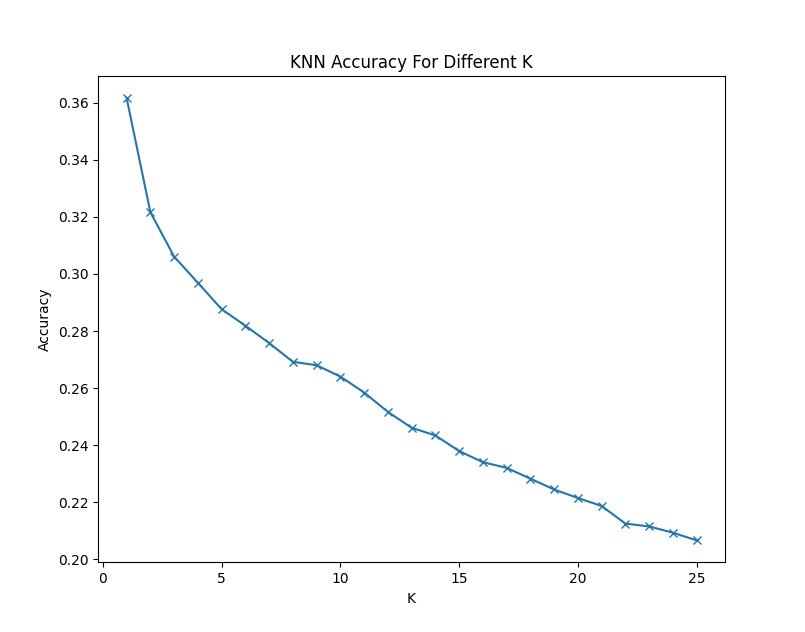
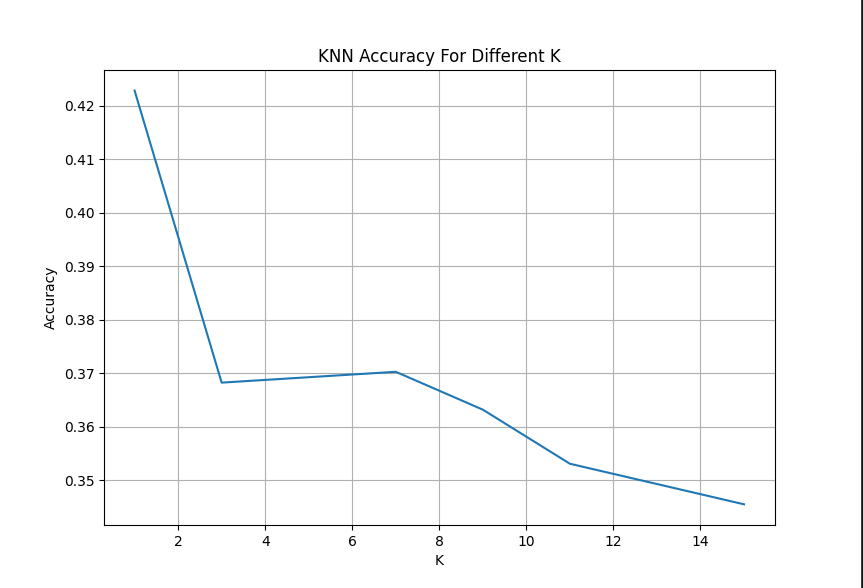
added KNN results. Best is K=1 with 42% accuracy

diff --git a/lib/models/KNN.py b/lib/models/KNN.py
@@ -1,5 +1,5 @@
 import numpy as np
-from sklearn.neighbors import KDTree
+from sklearn.neighbors import BallTree
 from tqdm import tqdm
 from typing import Sequence
 from .base import Classifier
@@ -7,24 +7,24 @@ from .base import Classifier
 
 class KNNClassifier(Classifier):
     """
-    K-Nearest Neighbors classifier using KDTree acceleration.
+    K-Nearest Neighbors classifier using BallTree acceleration.
     
     Attributes:
         K (int): Number of neighbors to consider in prediction.
         X_train (np.ndarray): Flattened training feature vectors.
         y_train (np.ndarray): Training labels.
-        tree (KDTree): KDTree built on training data.
+        tree (BallTree): BallTree built on training data.
     """
 
     def __init__(self, K: int = 1):
         self.K = K
         self.X_train: np.ndarray | None = None
         self.y_train: np.ndarray | None = None
-        self.tree: KDTree | None = None
+        self.tree: BallTree | None = None
 
     def fit(self, X: Sequence, y: Sequence) -> None:
         """
-        Fit the KNN model by storing training data and building a KDTree.
+        Fit the KNN model by storing training data and building a BallTree.
 
         Args:
             X: array-like of shape (N, ...) - training features
@@ -40,13 +40,13 @@ class KNNClassifier(Classifier):
         self.X_train = X
         self.y_train = y
 
-        tqdm.write("Building KDTree…")
-        self.tree = KDTree(self.X_train, metric="manhattan")
-        tqdm.write("KDTree built.")
+        tqdm.write("Building BallTree…")
+        self.tree = BallTree(self.X_train, metric="manhattan")
+        tqdm.write("BallTree built.")
 
     def predict(self, X: Sequence) -> np.ndarray:
         """
-        Predict labels for the input data using KDTree nearest neighbors.
+        Predict labels for the input data using BallTree nearest neighbors.
 
         Args:
             X: array-like of shape (N, ...) - test features
@@ -76,7 +76,7 @@ class KNNClassifier(Classifier):
 
         return np.array(preds)
 
-    def optimize_K(self, X: Sequence, y: Sequence, k_min: int = 1, k_max: int = 25):
+    def optimize_K(self, X: Sequence, y: Sequence, k_min: int = 1, k_max: int = 25, show_plot = False):
         """
         Sweep K values to find the one with the highest accuracy.
 
@@ -95,7 +95,7 @@ class KNNClassifier(Classifier):
         if X.ndim > 2:
             X = X.reshape(X.shape[0], -1)
 
-        tree = KDTree(X, metric="manhattan")
+        tree = BallTree(X, metric="manhatten")
 
         # Precompute neighbor indices
         tqdm.write("Precomputing neighbor indices…")

diff --git a/main.py b/main.py
@@ -7,6 +7,8 @@ from lib.datasets.emnist_dataset import EMNISTCSVProvider
 from lib.models.CNN import CNNShape, CNNShapeTester
 from lib.pipeline import run_training
 from datetime import datetime
+import matplotlib.pyplot as plot
+
 
 def run_png_knn():
     dataset = PNGDataset("data/distorted", test_dir="data/characters", test_fraction=0.1)
@@ -123,16 +125,23 @@ def run_png_knn_sweep():
 
     run_training(best_model, dataset, save_file=f"models/knn_png_bestK{best_k}_{timestamp}.pt")
 
-
+    #
+    # Plot the results
+    plot.plot(list(results.keys()), list(results.values()))
+    plot.title("KNN Accuracy For Different K")
+    plot.xlabel("K")
+    plot.ylabel("Accuracy")
+    plot.grid(True)
+    plot.show()
 
 # NOTE: EMNIST database: https://www.kaggle.com/datasets/crawford/emnist?resource=download
 # Please download the needed sets manually. MNIST files also need to be downloaded separately.
 
 if __name__ == "__main__":
     # Choose which example to run
-    #run_png_knn_sweep()
-    run_png_svm()
-    #run_png_knn()
+    run_png_knn_sweep()
+    # run_png_svm()
+    # run_png_knn()
     # run_emnist_svm()
     # run_png_cnn()
     # run_png_cnn_shapes()
